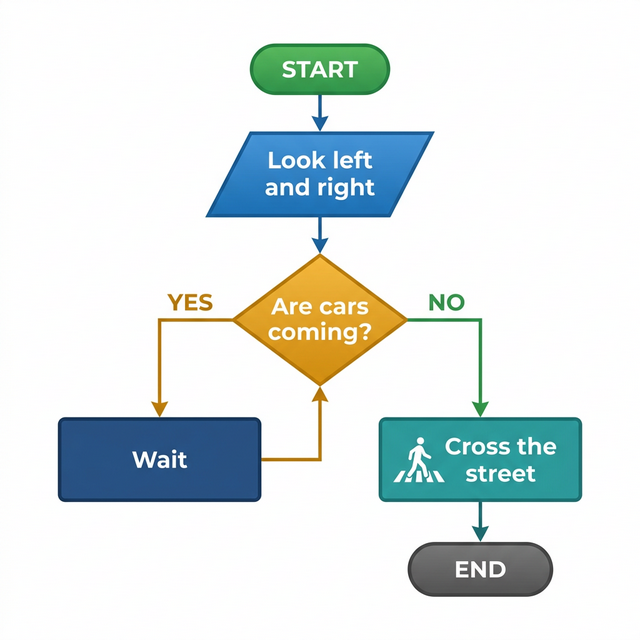
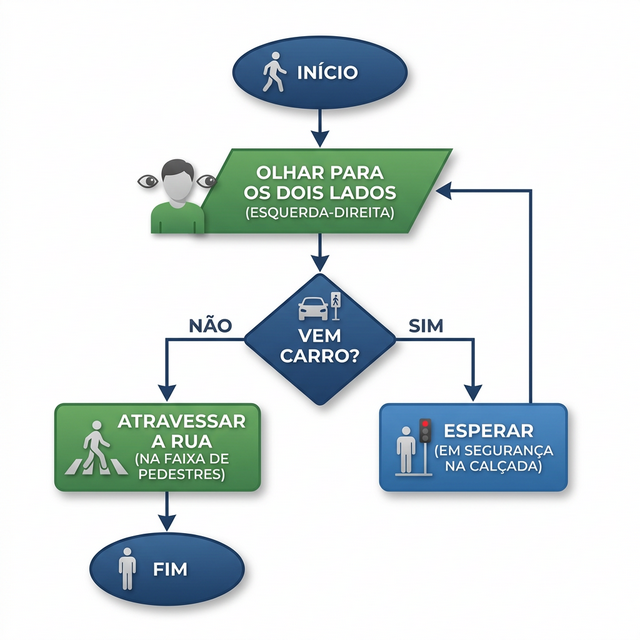
Generalize cell description and update flowchart images to Portuguese

Changed region(s): [[0.0625, 0.0312, 0.9375, 0.9688]]

diff --git a/README.md b/README.md
@@ -7,7 +7,7 @@
 ---
 
 ## 📖 Sobre a Célula
-A **UNIDEV** é uma célula de estudos dedicada ao aprendizado colaborativo de **programação, lógica e fundamentos de desenvolvimento**. Nosso objetivo é formar uma comunidade sólida de alunos que aprendem, praticam e evoluem juntos, preparando-se para os desafios do mercado de tecnologia.
+A **UNIDEV** é uma célula de estudos voltada ao aprendizado de **programação, lógica e fundamentos de desenvolvimento**, formando uma comunidade sólida de alunos que aprendem, praticam e evoluem juntos.
 
 ## 👤 Articulador
 * **João Vitor Costa**
@@ -35,16 +35,16 @@ Se você quer aprender, trocar conhecimentos e crescer na área de desenvolvimen
 ---
 
 ### 🛠 Tópicos Abordados
-- Lógica de Programação
-- Algoritmos e Estrutura de Dados
-- Fundamentos de Desenvolvimento (C/Web)
+- Lógica de Programação e Algoritmos
+- Estrutura de Dados e Fundamentos
+- Programação Web e Software
 - Pair Programming e Projetos Práticos
 
 ---
 
-### 🛤 Trilha de Aprendizado
-Para planejar seus estudos, acesse o cronograma completo da nossa trilha:
-👉 **[Trilha de Programação - Fundamentos em C](TRILHA_C.md)**
+### 🛤 Trilhas de Aprendizado
+Para planejar seus estudos, confira nossas trilhas disponíveis:
+👉 **[Trilha 01: Fundamentos com Linguagem C](TRILHA_C.md)**
 
 ---
 

diff --git a/aulas/apresentacao/README.md b/aulas/apresentacao/README.md
@@ -29,10 +29,10 @@ Para que nossa célula funcione com excelência, seguimos estes cinco princípio
 ---
 
 ### 🤝 Nossa Célula: UNIDEV
-A **UNIDEV** nasceu com o objetivo de unir desenvolvedores em busca de uma base sólida.
+A **UNIDEV** nasceu com o objetivo de unir desenvolvedores em busca de uma evolução conjunta.
 *   **Articulador:** João Vitor Costa.
-*   **Foco:** Lógica, Algoritmos e Programação em C.
-*   **Metodologia:** Aprendizado na prática e apoio mútuo.
+*   **Foco:** Programação, Lógica e Fundamentos de Desenvolvimento.
+*   **Metodologia:** Aprendizado cooperativo, prática e apoio mútuo.
 
 ---
 
